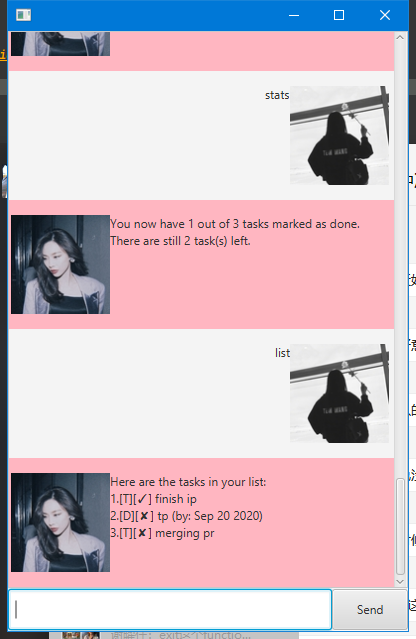
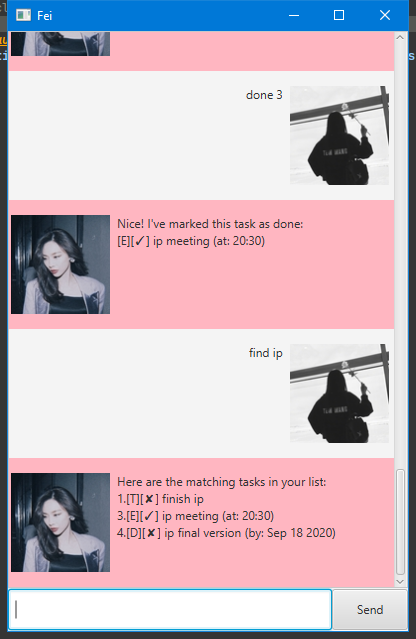
Add a User Guide

diff --git a/src/main/java/fei/tool/Ui.java b/src/main/java/fei/tool/Ui.java
@@ -12,7 +12,8 @@ public class Ui {
     }
 
     public String byeMessage() {
-        return "Bye. Hope to see you again soon!\n";
+        return "GoodBye, baby.\n"
+                + "Hope to see you again soon!\n";
     }
 
     public String showList(TaskList tasks) {
@@ -22,24 +23,26 @@ public class Ui {
         StringBuilder response = new StringBuilder("Here are the tasks in your list:\n");
         for (int i = 0; i < tasks.size(); i++) {
             Task task = tasks.get(i);
-            response.append(String.format("%d.%s\n", i + 1, task));
+            response.append(String.format("%d. %s\n", i + 1, task));
         }
         return response.toString();
     }
 
     public String showMatching(TaskList tasks, String keyword) {
         StringBuilder response = new StringBuilder("Here are the matching tasks in your list:\n");
+        int matches = 0;
         for (int i = 0; i < tasks.size(); i++) {
             Task task = tasks.get(i);
             String description = task.getDescription();
             String[] words = description.split(" ");
             for (String word : words) {
                 if (word.equals(keyword)) {
-                    response.append(String.format("%d.%s%\n", i + 1, task));
+                    matches++;
+                    response.append(String.format("%d. %s\n", i + 1, task));
                 }
             }
         }
-        return response.toString();
+        return matches == 0 ? "No matching task found." : response.toString();
     }
 
     public String markDoneMsg(Task task) {
@@ -72,14 +75,14 @@ public class Ui {
 
     public String HelpMessage() {
         return "The following commands are supported:\n"
-                + "1. todo [task description]\n"
-                + "2. deadline [task description] /by [time]\n"
-                + "3. event [task description] /by [time]\n"
-                + "4. list\n"
-                + "5. delete [index]\n"
-                + "6. done [index]\n"
-                + "7. find [keywords]\n"
-                + "8. exit\n"
+                + " 1. todo [task description]\n"
+                + " 2. deadline [task description] /by [time]\n"
+                + " 3. event [task description] /by [time]\n"
+                + " 4. list\n"
+                + " 5. delete [index]\n"
+                + " 6. done [index]\n"
+                + " 7. find [keywords]\n"
+                + " 8. exit\n"
                 + "You can replace '[xxx]' with your on input.\n";
     }
 

diff --git a/src/main/java/MainWindow.java b/src/main/java/MainWindow.java
@@ -55,7 +55,7 @@ public class MainWindow extends AnchorPane {
         );
         userInput.clear();
         if (fei.isExit()) {
-            PauseTransition delay = new PauseTransition((Duration.seconds(0.5)));
+            PauseTransition delay = new PauseTransition((Duration.seconds(1)));
             delay.setOnFinished(event -> Platform.exit());
             delay.play();
         }

diff --git a/src/main/java/Main.java b/src/main/java/Main.java
@@ -21,6 +21,7 @@ public class Main extends Application {
             AnchorPane ap = fxmlLoader.load();
             Scene scene = new Scene(ap);
             stage.setScene(scene);
+            stage.setTitle("Fei");
             fxmlLoader.<MainWindow>getController().setFei(fei);
             stage.show();
         } catch (IOException e) {

diff --git a/src/main/java/fei/tool/Parser.java b/src/main/java/fei/tool/Parser.java
@@ -142,7 +142,7 @@ public class Parser {
     }
 
     private static Command parseFind(String description) {
-        assert description.split(" ").length == 1: FeiException.findException();
+        assert description.split(" ").length == 2: FeiException.findException();
         return new FindCommand(description);
     }
 

diff --git a/src/main/java/DialogBox.java b/src/main/java/DialogBox.java
@@ -39,6 +39,7 @@ public class DialogBox extends HBox {
         }
         dialog.setText(text);
         displayPicture.setImage(img);
+        setSpacing(7);
     }
 
     /**

diff --git a/docs/README.md b/docs/README.md
@@ -1,20 +1,193 @@
-# User Guide
+# Fei User Guide
+
+## Introduction
+Fei is a Task Manager application, it uses Command Line Interface(CLI). 
+It can help people (who prefers typing to voice/mouse command) to manage their tasks more efficiently.
+
+## User interface
+![UI](Ui.png)
 
 ## Features 
 
-### Feature 1 
-Description of feature.
+* Add a task to task list:
+    1. **`todo`**: add a *todo* task to the list.
+    2. **`deadline`**: add a *deadline* task to the list.
+    3. **`event`**: add an *event* task to the list.
+
+* List all tasks in the task list: 
+     **`list`**
+
+* Mark a task as done: 
+    **`done`**
+
+* Delete a task:
+    **`delete`**
+
+* Find all tasks that matches the given keyword:
+    **`find`**
+    
+* Show an overall statistics of undone tasks:
+    **`stats`**
+    
+* Provide In-app instruction for all the commands:
+    **`help`**
+
+* Exit the application:
+    **`bye`**, **`exit`**
 
 ## Usage
 
-### `Keyword` - Describe action
+### Add task commands
 
-Describe action and its outcome.
+### 1. `todo DESCRIPTION` - Add *todo* task to the list
 
 Example of usage: 
 
-`keyword (optional arguments)`
+* `todo finish ip`
 
 Expected outcome:
+```
+I've added this task:
+[T][✘] finish ip
+Now you have 1 tasks in the list.
+```
 
-`outcome`
+### 2. `deadline DESCRIPTION /by TIME` - Add *deadline* task to the list
+
+Example of usage: 
+
+1.`deadline ip final version /by 2020-09-18`
+
+Expected outcome:
+```
+I've added this task: 
+  [D][✘] ip final version (by: Sep 18 2020)
+Now you have 2 tasks in the list.
+```
+
+
+Example of usage: 
+
+2.`deadline ip final version /by tonight`
+
+Expected outcome:
+```
+Sorry, I can't parse the time format of your input.
+Try in this format: yyyy-mm-dd (e.g. 2020-01-01).
+I've added this task: 
+  [D][✘] ip final version (by: tonight)
+Now you have 2 tasks in the list.
+```
+
+### 3.`event DESCRIPTION /by TIME` - Add *event* task to the list
+
+Example of usage: 
+
+* `event tp meeting /at 21:00`
+
+Expected outcome:
+```
+I've added this task: 
+  [E][✘] tp meeting (at: 21:00)
+Now you have 3 tasks in the list.
+```
+### List Command
+
+### `list` - List all the tasks in the task list.
+
+Example of usage: 
+
+* `list`
+
+Expected outcome:
+```
+Here are the tasks in your list:
+  1. [T][✘] finish ip
+  2. [D][✘] ip final version (by: Sep 18 2020)
+  3. [E][✘] tp meeting (at: 21:00)
+```
+
+### Done Command
+### `done INDEX` - Mark a task with the given INDEX as done, the index must be in the range of your list index.
+Example of usage: 
+
+* `done 3`
+
+Expected outcome:
+```
+Nice! I've marked this task as done:
+[E][✓] tp meeting (at: 21:00)
+```
+
+### Delete Command
+### `delete INDEX` - Delete a task with the given INDEX, the index must be in the range of your list index.
+Example of usage: 
+
+* `delete 3`
+
+Expected outcome:
+```
+Noted. I've removed this task:
+ [E][✓] tp meeting (at: 21:00)
+Now you have 2 tasks in the list.
+```
+
+### Find Command
+### `find KEYWORD` - Find all tasks that matches the given keyword.
+Example of usage: 
+
+* `find ip`
+
+Expected outcome:
+```
+Here are the matching tasks in your list:
+  1. [T][✘] finish ip
+  2. [D][✘] ip final version (by: Sep 18 2020)
+```
+
+### Statistic Command
+### `stats` - Show an overall statistics of undone tasks.
+Example of usage: 
+
+* `stats`
+
+Expected outcome:
+```
+You now have 1 out of 2 tasks marked as done.
+There are still 1 task(s) left.
+```
+
+### Help Command
+### `help` - Provide In-app instruction for all the commands.
+Example of usage: 
+
+* `help`
+
+Expected outcome:
+```
+The following commands are supported:
+ 1. todo [task description]
+ 2. deadline [task description] /by [time]
+ 3. event [task description] /by [time]
+ 4. list
+ 5. delete [index]
+ 6. done [index]
+ 7. find [keywords]
+ 8. exit
+You can replace '[xxx]' with your on input.
+```
+
+### Exit Command
+### `bye`, `exit` - Show goodbye message, and exit the application.
+Example of usage: 
+
+* `bye`
+* `exit`
+
+Expected outcome:
+```
+GoodBye, baby.
+Hope to see you again soon!
+```
+
+
